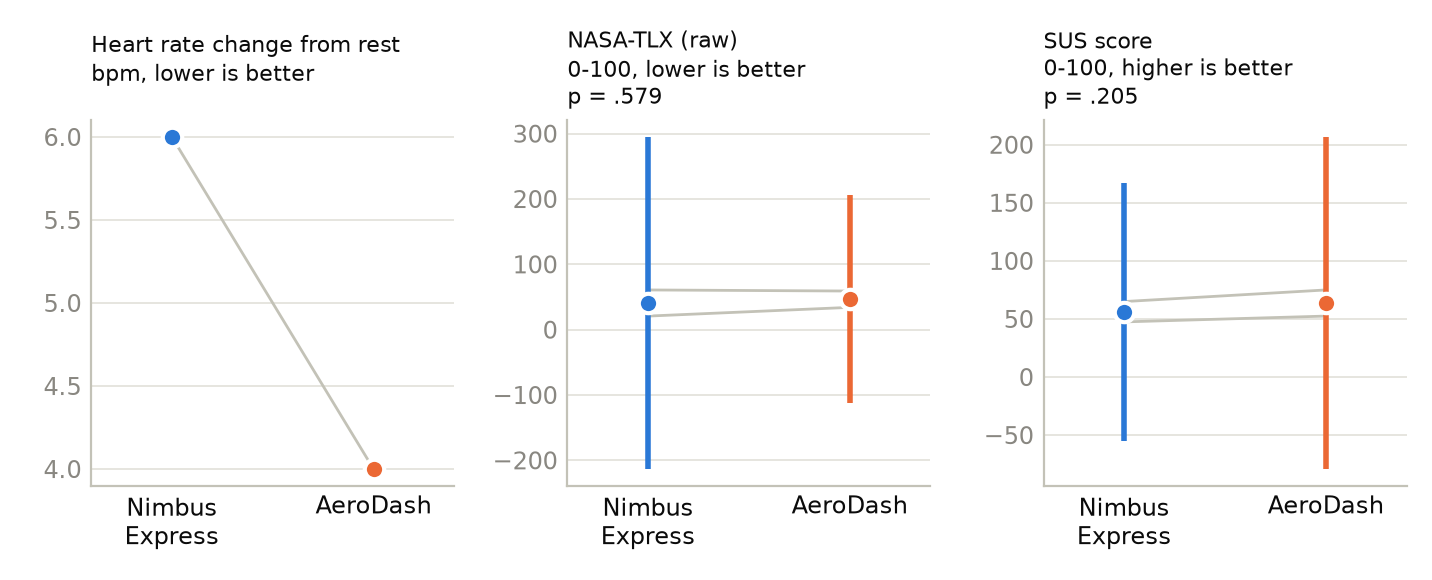
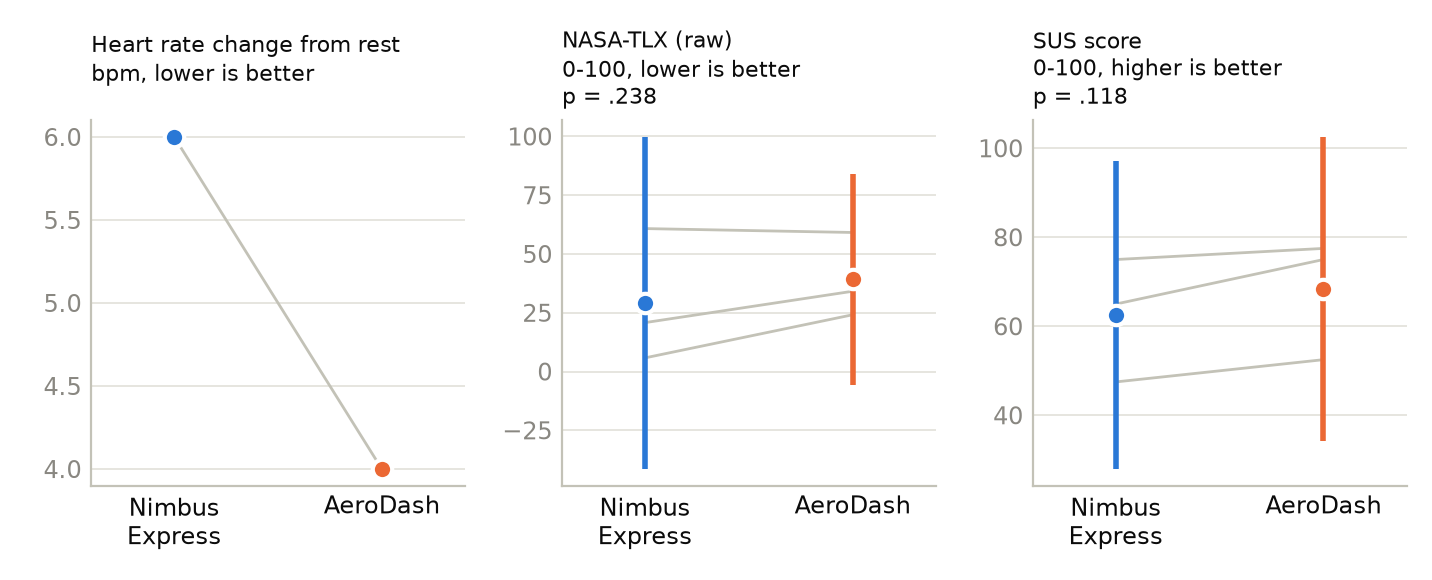
Rebuild report from b713409

diff --git a/report/REPORT.md b/report/REPORT.md
@@ -3,9 +3,9 @@
 [Author 1 Name], [Author 2 Name], [Author 3 Name], [Author 4 Name]
 *ENGR 321: Human Factors Engineering, [Department], [University]* · *Instructor: [Name]*
 
-> **Generated file — do not edit `report/REPORT.md` by hand.** Edit `report/template.md`; the report rebuilds from the data on every push. Numbers in this version: 2 participants, 4 flights, built 2026-11-23 01:05 UTC from commit `04b5ca7`.
+> **Generated file — do not edit `report/REPORT.md` by hand.** Edit `report/template.md`; the report rebuilds from the data on every push. Numbers in this version: 3 participants, 6 flights, built 2026-11-23 01:43 UTC from commit `b713409`.
 
-**_Abstract_—This study compared two drone delivery dashboards, Nimbus Express and AeroDash, to see how each one's design affects how quickly operators notice and act on alerts, how well they fly, and how stressed and loaded they feel. In a within-subject study, 2 participants flew a simulated delivery route once with each dashboard while three alerts appeared on the dashboard only: low battery, a wind warning, and a status check. No measure differed significantly between the dashboards at α = .05. [TO COMPLETE: one sentence on the main design recommendation.]**
+**_Abstract_—This study compared two drone delivery dashboards, Nimbus Express and AeroDash, to see how each one's design affects how quickly operators notice and act on alerts, how well they fly, and how stressed and loaded they feel. In a within-subject study, 3 participants flew a simulated delivery route once with each dashboard while three alerts appeared on the dashboard only: low battery, a wind warning, and a status check. No measure differed significantly between the dashboards at α = .05. [TO COMPLETE: one sentence on the main design recommendation.]**
 
 **_Index Terms_—drone delivery, dashboard design, human factors, alert response, mental workload, heart rate, usability.**
 
@@ -37,7 +37,7 @@ Within-subject: every participant flew once with each dashboard. The independent
 
 ### B. Participants
 
-2 participants took part (1 ENGR 321 classmate, 1 Other major). [TO COMPLETE: recruitment, age range, controller experience.] Each was identified only by a coded ID (P001, P002, …) and signed a consent form (Appendix A).
+3 participants took part (2 Other major, 1 ENGR 321 classmate). [TO COMPLETE: recruitment, age range, controller experience.] Each was identified only by a coded ID (P001, P002, …) and signed a consent form (Appendix A).
 
 ### C. Apparatus
 
@@ -84,7 +84,7 @@ Each measure was compared between dashboards with a two-tailed paired t-test (α
 
 ## IV. RESULTS
 
-2 participants completed 4 trials (sessions Nov 18 to Nov 22, 2026). Data completeness is in Appendix B.
+3 participants completed 6 trials (sessions Nov 18 to Nov 22, 2026). Data completeness is in Appendix B.
 
 ### A. Dashboard Comparison
 
@@ -92,39 +92,41 @@ Each measure was compared between dashboards with a two-tailed paired t-test (α
 
 | Measure                                            | n   | Nimbus Express   | AeroDash       | Diff   | t(df)     | p    | d_z   |
 |:---------------------------------------------------|:----|:-----------------|:---------------|:-------|:----------|:-----|:------|
-| Wind time to descend (s, lower is better)          | 0   | — (—)            | — (—)          | —      | —         | —    | —     |
-| Missed alerts (count, lower is better)             | 2   | 3.00 (0.00)      | 2.00 (1.41)    | 1.00   | 1.00 (1)  | .500 | 0.71  |
-| Gates passed (of 15) (count, higher is better)     | 2   | 9.00 (8.49)      | 8.50 (0.71)    | 0.50   | 0.09 (1)  | .942 | 0.06  |
-| Collisions (count, lower is better)                | 2   | 0.00 (0.00)      | 0.00 (0.00)    | 0.00   | —         | —    | —     |
-| Path deviation (m, lower is better)                | 2   | 48.80 (65.76)    | 3.70 (3.82)    | 45.10  | 1.03 (1)  | .491 | 0.73  |
-| Task time (s, lower is better)                     | 2   | 191.10 (10.18)   | 164.40 (41.72) | 26.70  | 0.73 (1)  | .600 | 0.51  |
+| Wind time to descend (s, lower is better)          | 1   | 5.17 (—)         | 7.13 (—)       | -1.96  | —         | —    | —     |
+| Missed alerts (count, lower is better)             | 3   | 2.67 (0.58)      | 2.33 (1.15)    | 0.33   | 0.38 (2)  | .742 | 0.22  |
+| Gates passed (of 15) (count, higher is better)     | 3   | 11.00 (6.93)     | 8.00 (1.00)    | 3.00   | 0.74 (2)  | .535 | 0.43  |
+| Collisions (count, lower is better)                | 3   | 0.00 (0.00)      | 0.00 (0.00)    | 0.00   | —         | —    | —     |
+| Path deviation (m, lower is better)                | 3   | 33.80 (53.27)    | 4.30 (2.89)    | 29.50  | 0.99 (2)  | .425 | 0.57  |
+| Task time (s, lower is better)                     | 3   | 207.73 (29.70)   | 151.23 (37.29) | 56.50  | 1.55 (2)  | .262 | 0.89  |
 | Heart rate change from rest (bpm, lower is better) | 1   | 6.00 (—)         | 4.00 (—)       | 2.00   | —         | —    | —     |
-| NASA-TLX (raw) (0-100, lower is better)            | 2   | 40.83 (28.28)    | 46.67 (17.68)  | -5.84  | -0.78 (1) | .579 | -0.55 |
-| SUS score (0-100, higher is better)                | 2   | 56.25 (12.37)    | 63.75 (15.91)  | -7.50  | -3.00 (1) | .205 | -2.12 |
+| NASA-TLX (raw) (0-100, lower is better)            | 3   | 29.16 (28.43)    | 39.17 (18.03)  | -10.01 | -1.67 (2) | .238 | -0.96 |
+| SUS score (0-100, higher is better)                | 3   | 62.50 (13.92)    | 68.33 (13.77)  | -5.83  | -2.65 (2) | .118 | -1.53 |
 
-- **Wind time to descend:** not enough paired data for a test yet (n = 0).
-- **Missed alerts** did not differ significantly (Nimbus Express 3.00 vs. AeroDash 2.00; t(1) = 1.00, p = .500, d_z = 0.71).
-- **Gates passed (of 15)** did not differ significantly (Nimbus Express 9.00 vs. AeroDash 8.50; t(1) = 0.09, p = .942, d_z = 0.06).
-- **Collisions:** not enough paired data for a test yet (n = 2).
-- **Path deviation** did not differ significantly (Nimbus Express 48.80 m vs. AeroDash 3.70 m; t(1) = 1.03, p = .491, d_z = 0.73).
-- **Task time** did not differ significantly (Nimbus Express 191.10 s vs. AeroDash 164.40 s; t(1) = 0.73, p = .600, d_z = 0.51).
+- **Wind time to descend:** not enough paired data for a test yet (n = 1).
+- **Missed alerts** did not differ significantly (Nimbus Express 2.67 vs. AeroDash 2.33; t(2) = 0.38, p = .742, d_z = 0.22).
+- **Gates passed (of 15)** did not differ significantly (Nimbus Express 11.00 vs. AeroDash 8.00; t(2) = 0.74, p = .535, d_z = 0.43).
+- **Collisions:** not enough paired data for a test yet (n = 3).
+- **Path deviation** did not differ significantly (Nimbus Express 33.80 m vs. AeroDash 4.30 m; t(2) = 0.99, p = .425, d_z = 0.57).
+- **Task time** did not differ significantly (Nimbus Express 207.73 s vs. AeroDash 151.23 s; t(2) = 1.55, p = .262, d_z = 0.89).
 - **Heart rate change from rest:** not enough paired data for a test yet (n = 1).
-- **NASA-TLX (raw)** did not differ significantly (Nimbus Express 40.83 vs. AeroDash 46.67; t(1) = -0.78, p = .579, d_z = -0.55).
-- **SUS score** did not differ significantly (Nimbus Express 56.25 vs. AeroDash 63.75; t(1) = -3.00, p = .205, d_z = -2.12).
+- **NASA-TLX (raw)** did not differ significantly (Nimbus Express 29.16 vs. AeroDash 39.17; t(2) = -1.67, p = .238, d_z = -0.96).
+- **SUS score** did not differ significantly (Nimbus Express 62.50 vs. AeroDash 68.33; t(2) = -2.65, p = .118, d_z = -1.53).
 
 ![Fig. 1](figures/fig1_paired.png)
 
 *Fig. 1. Each gray line is one participant; colored points are means with 95% confidence intervals.*
 
+![Fig. 2](figures/fig2_alert_rt.png)
 
+*Fig. 2. Time from alert onset to pressing A, by alert type. Points are means with 95% confidence intervals.*
 
 ### B. Learning-Effect Check
 
 **TABLE II.** Trial 1 vs. Trial 2, Mean (SD)
 
-| Measure                        | n   | Trial 1        | Trial 2        | Diff   | t(df)    | p    | d_z   |
-|:-------------------------------|:----|:---------------|:---------------|:-------|:---------|:-----|:------|
-| Task time (s, lower is better) | 2   | 191.10 (10.18) | 164.40 (41.72) | 26.70  | 0.73 (1) | .600 | 0.51  |
+| Measure                        | n   | Trial 1        | Trial 2        | Diff   | t(df)     | p    | d_z   |
+|:-------------------------------|:----|:---------------|:---------------|:-------|:----------|:-----|:------|
+| Task time (s, lower is better) | 3   | 169.03 (38.89) | 189.93 (53.16) | -20.90 | -0.40 (2) | .727 | -0.23 |
 
 ### C. Participant Groups
 
@@ -132,10 +134,10 @@ Each measure was compared between dashboards with a two-tailed paired t-test (α
 
 | Group              | Dashboard      |   Flights |   Alert RT (s) |   Gates passed |   Collisions |   Path deviation (m) |   Task time (s) |
 |:-------------------|:---------------|----------:|---------------:|---------------:|-------------:|---------------------:|----------------:|
-| ENGR 321 classmate | AeroDash       |         1 |            nan |              9 |            0 |                  1   |           134.9 |
-| ENGR 321 classmate | Nimbus Express |         1 |            nan |             15 |            0 |                  2.3 |           198.3 |
-| Other major        | AeroDash       |         1 |            nan |              8 |            0 |                  6.4 |           193.9 |
-| Other major        | Nimbus Express |         1 |            nan |              3 |            0 |                 95.3 |           183.9 |
+| ENGR 321 classmate | AeroDash       |         1 |         nan    |            9   |            0 |                 1    |          134.9  |
+| ENGR 321 classmate | Nimbus Express |         1 |         nan    |           15   |            0 |                 2.3  |          198.3  |
+| Other major        | AeroDash       |         2 |         nan    |            7.5 |            0 |                 5.95 |          159.4  |
+| Other major        | Nimbus Express |         2 |           2.28 |            9   |            0 |                49.55 |          212.45 |
 
 ## V. DISCUSSION
 
@@ -143,7 +145,7 @@ Each measure was compared between dashboards with a two-tailed paired t-test (α
 
 ## VI. LIMITATIONS AND FUTURE WORK
 
-- **Small sample:** 2 participants limits statistical power.
+- **Small sample:** 3 participants limits statistical power.
 - **Practice effects:** counterbalancing, a practice flight, and a mirrored route reduce but may not remove them (Table II).
 - **Simulator:** a desktop simulator with a game controller is not a real operations console.
 - **Heart rate:** Apple Watch optical HR is sampled every few seconds and is affected by movement.
@@ -161,10 +163,11 @@ Participants were invited to take part in a class study for ENGR 321 (Human Fact
 
 Each trial needs four files (summary, survey, events, telemetry).
 
-| Participant   | Baseline   | Trial1      | Trial2        | Heart rate   | Complete   |
-|:--------------|:-----------|:------------|:--------------|:-------------|:-----------|
-| P001          | no         | Nimbus: 4/4 | AeroDash: 4/4 | yes          | no         |
-| P003          | no         | Nimbus: 4/4 | AeroDash: 4/4 | no           | no         |
+| Participant   | Baseline   | Trial1        | Trial2        | Heart rate   | Complete   |
+|:--------------|:-----------|:--------------|:--------------|:-------------|:-----------|
+| P001          | no         | Nimbus: 4/4   | AeroDash: 4/4 | yes          | no         |
+| P003          | no         | Nimbus: 4/4   | AeroDash: 4/4 | no           | no         |
+| P004          | yes        | AeroDash: 4/4 | Nimbus: 4/4   | no           | no         |
 
 ## ACKNOWLEDGMENT
 
